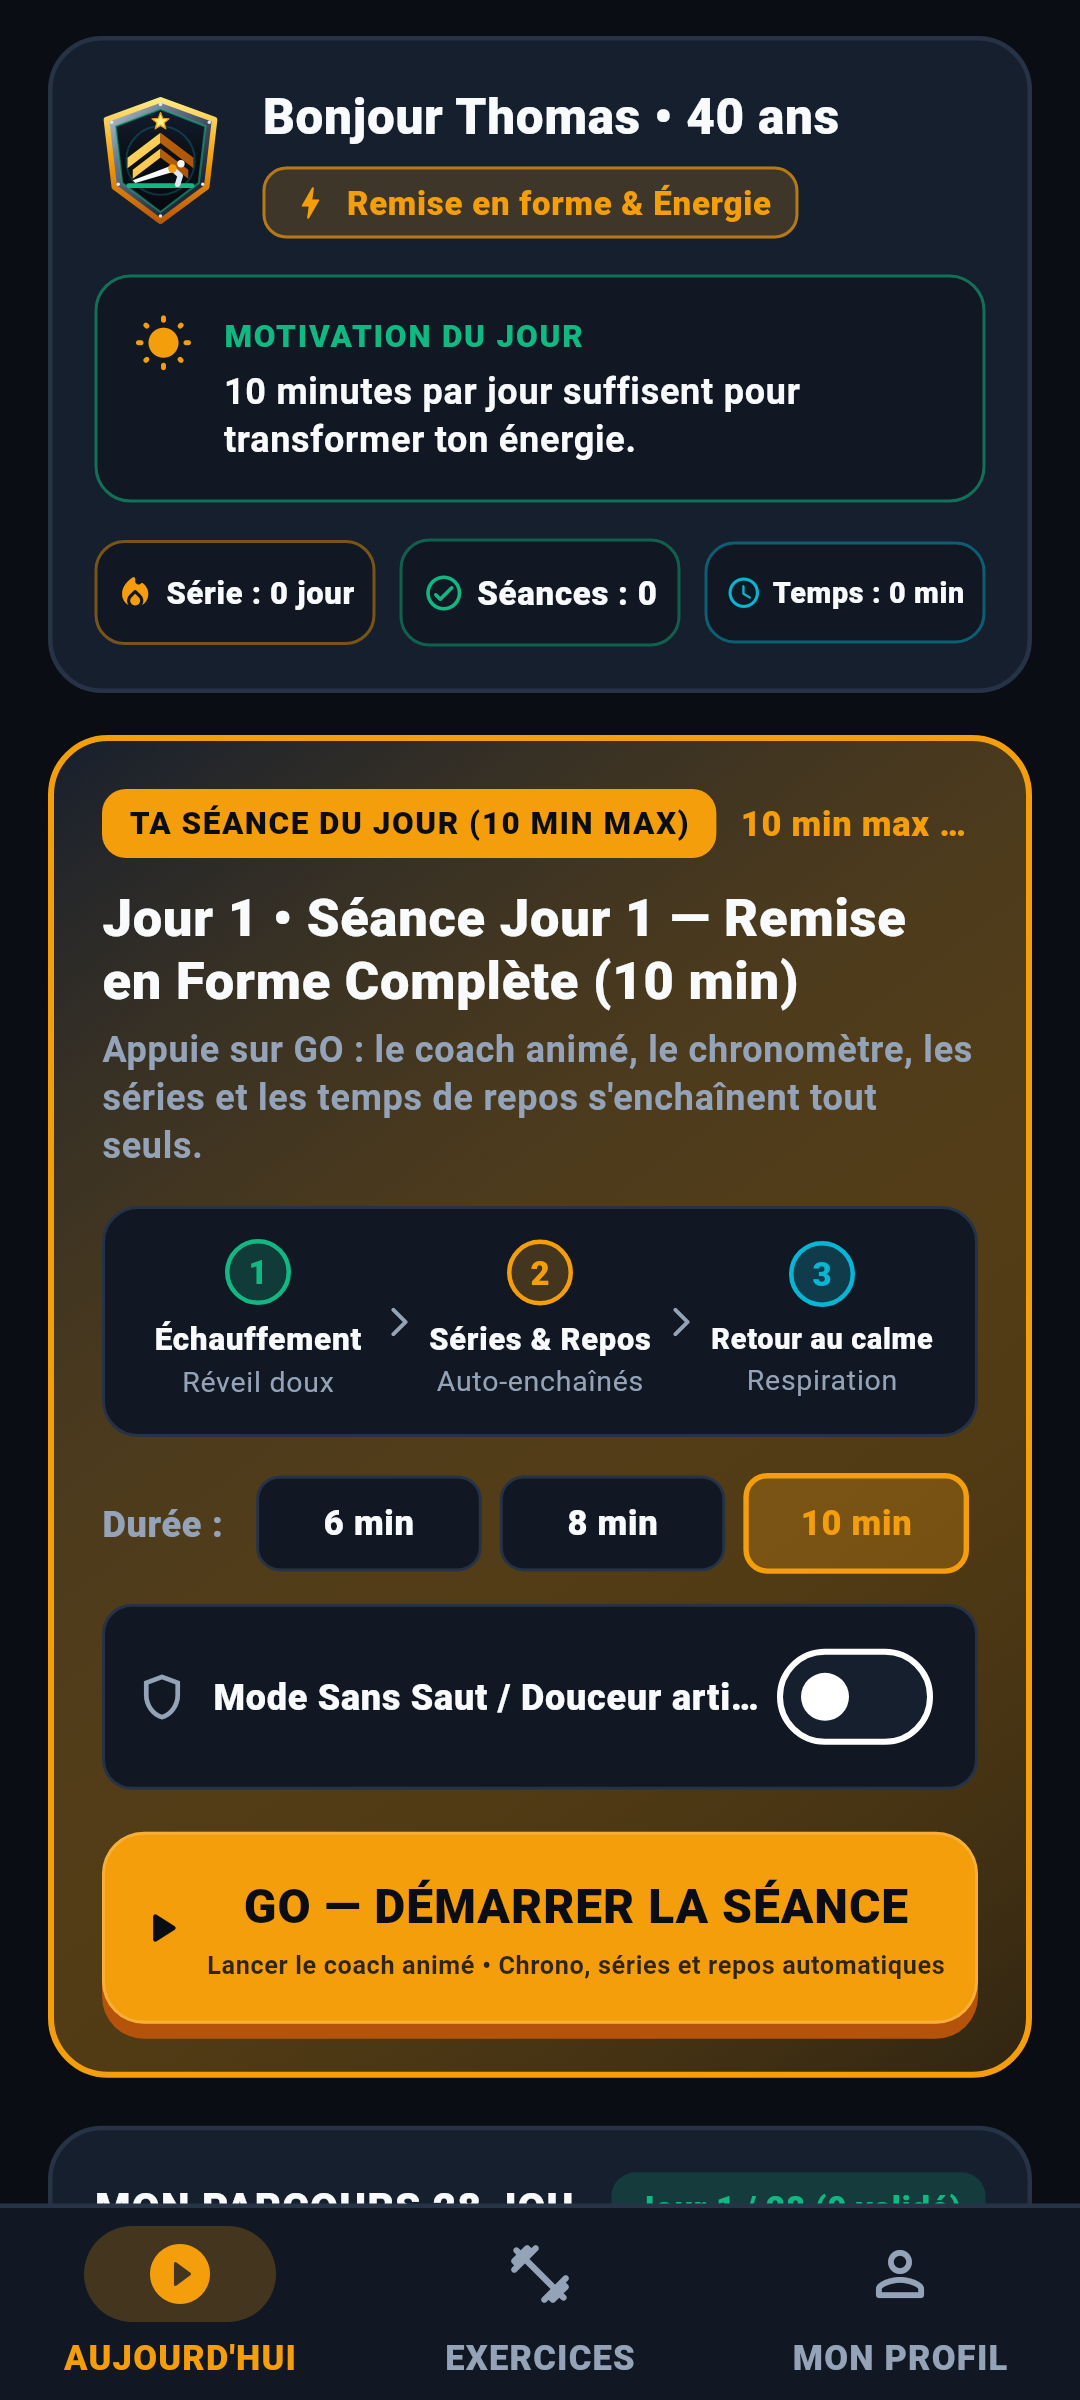
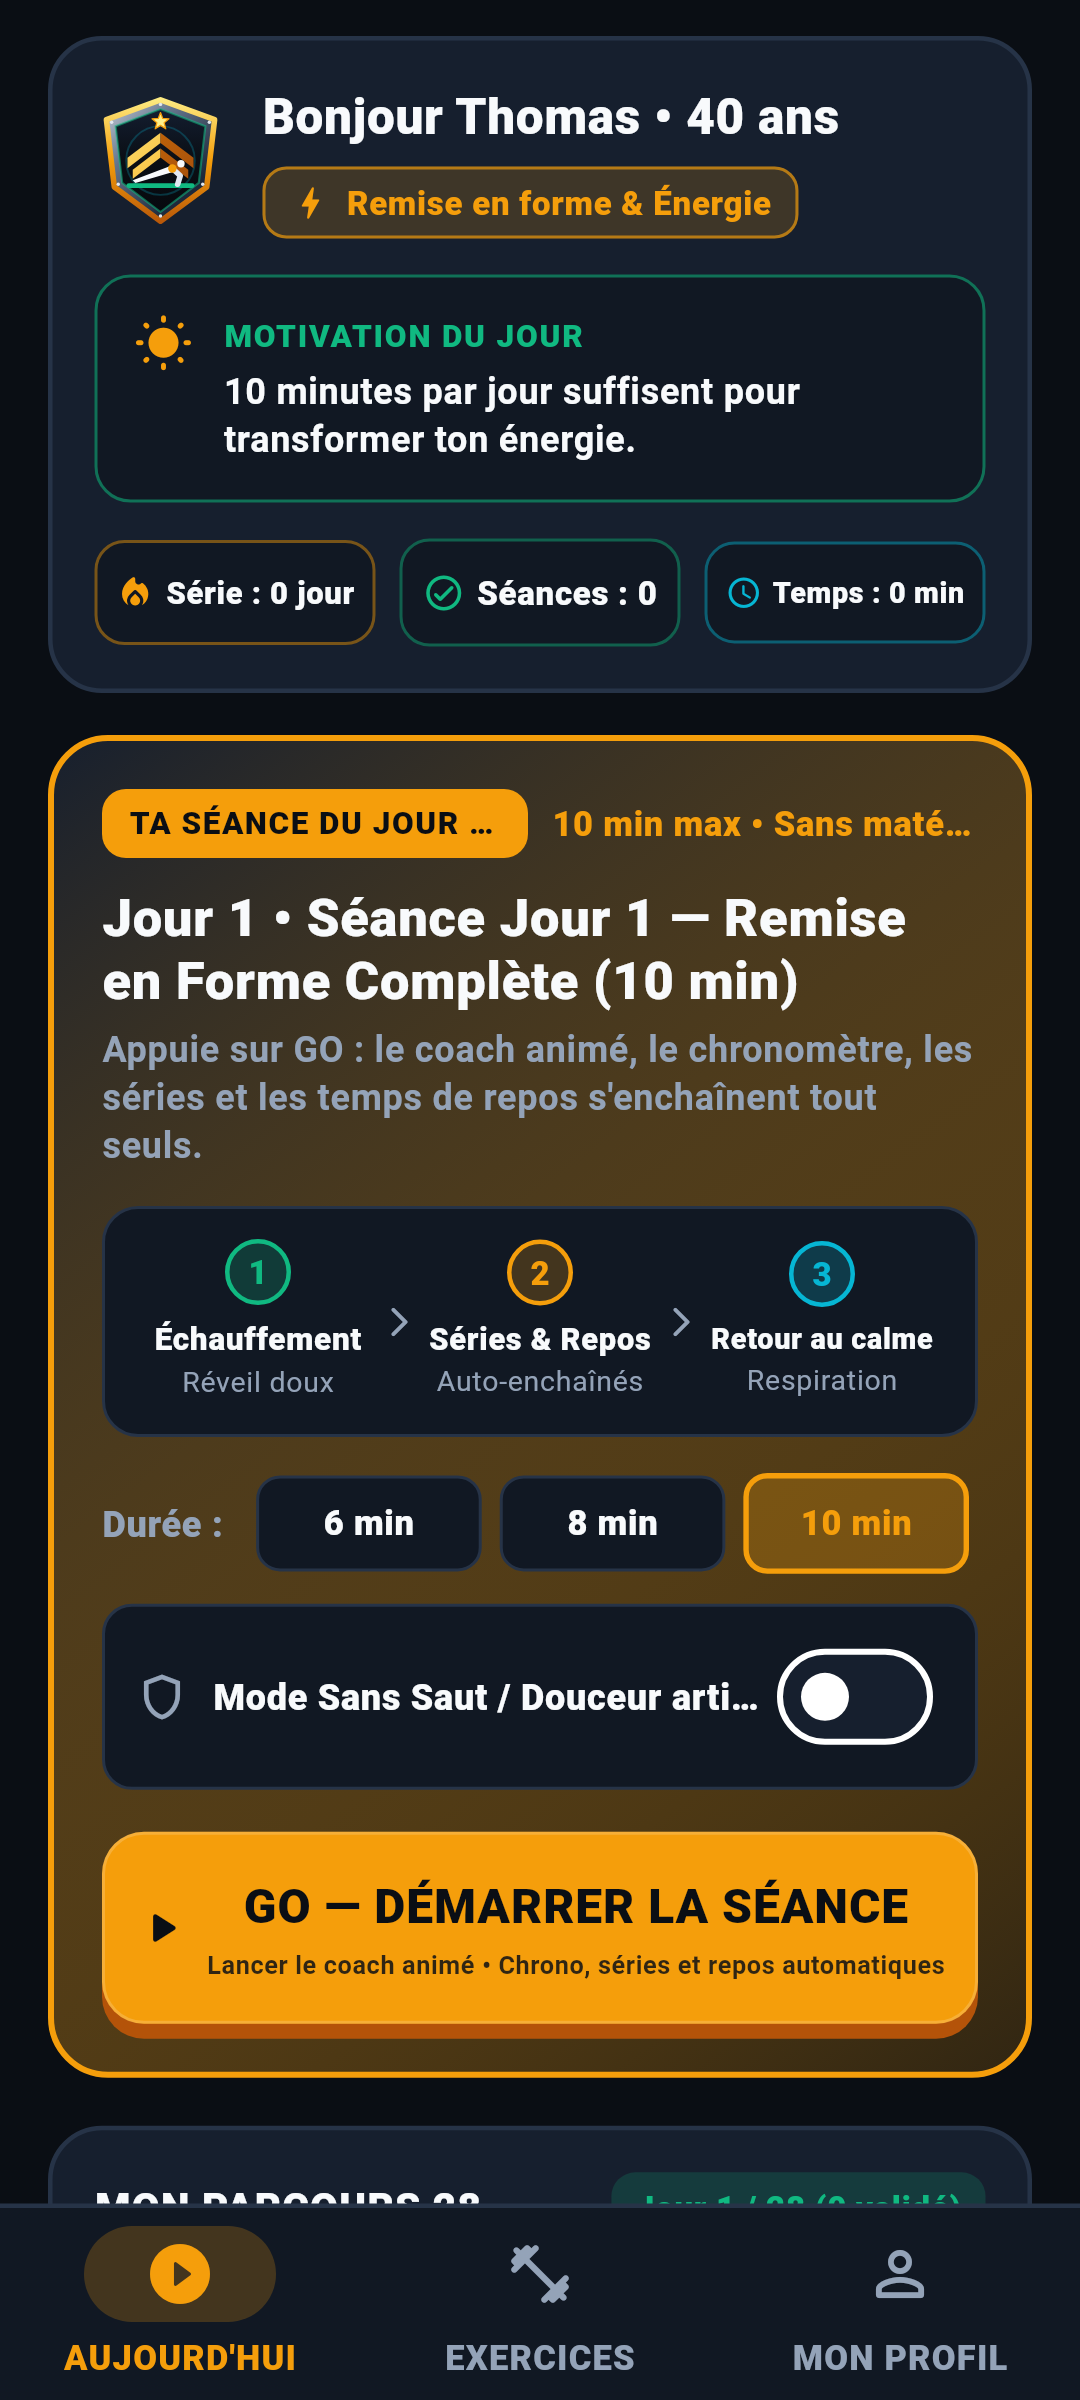
fix(v1.1.1): resolve CI test font overflow and publish Android APK/AAB builds to GitHub Releases

Changed region(s): [[0.4583, 0.3125, 0.6722, 0.375], [0.7333, 0.3438, 0.7639, 0.375], [0.7028, 0.3125, 0.7333, 0.3438]]

diff --git a/lib/ui/barracks_and_trials_tab.dart b/lib/ui/barracks_and_trials_tab.dart
@@ -167,12 +167,16 @@ class BarracksAndTrialsTab extends StatelessWidget {
         children: <Widget>[
           Icon(icon, color: accent, size: 18),
           const SizedBox(width: 10),
-          Text(
-            '$label : ',
-            style: const TextStyle(
-              color: MakeFitTheme.textSecondary,
-              fontWeight: FontWeight.w700,
-              fontSize: 12,
+          Flexible(
+            child: Text(
+              '$label : ',
+              maxLines: 1,
+              overflow: TextOverflow.ellipsis,
+              style: const TextStyle(
+                color: MakeFitTheme.textSecondary,
+                fontWeight: FontWeight.w700,
+                fontSize: 12,
+              ),
             ),
           ),
           Expanded(
@@ -260,22 +264,32 @@ class BarracksAndTrialsTab extends StatelessWidget {
           Row(
             mainAxisAlignment: MainAxisAlignment.spaceBetween,
             children: <Widget>[
-              Text(
-                'Niveau actuel : ${profile.rank.title}',
-                style: const TextStyle(
-                  color: MakeFitTheme.textPrimary,
-                  fontWeight: FontWeight.w800,
-                  fontSize: 11.5,
+              Flexible(
+                child: Text(
+                  'Niveau actuel : ${profile.rank.title}',
+                  maxLines: 1,
+                  overflow: TextOverflow.ellipsis,
+                  style: const TextStyle(
+                    color: MakeFitTheme.textPrimary,
+                    fontWeight: FontWeight.w800,
+                    fontSize: 11.5,
+                  ),
                 ),
               ),
-              Text(
-                nextRank != null
-                    ? 'Prochain palier : $nextMinTxp XP'
-                    : 'Niveau maximal atteint',
-                style: const TextStyle(
-                  color: MakeFitTheme.textSecondary,
-                  fontWeight: FontWeight.w700,
-                  fontSize: 11,
+              const SizedBox(width: 8),
+              Flexible(
+                child: Text(
+                  nextRank != null
+                      ? 'Prochain palier : $nextMinTxp XP'
+                      : 'Niveau maximal atteint',
+                  maxLines: 1,
+                  overflow: TextOverflow.ellipsis,
+                  textAlign: TextAlign.right,
+                  style: const TextStyle(
+                    color: MakeFitTheme.textSecondary,
+                    fontWeight: FontWeight.w700,
+                    fontSize: 11,
+                  ),
                 ),
               ),
             ],
@@ -366,12 +380,18 @@ class BarracksAndTrialsTab extends StatelessWidget {
                   ),
                 ),
               ),
-              Text(
-                '$activeDays / 28 jours cochés',
-                style: const TextStyle(
-                  color: MakeFitTheme.emeraldH2f,
-                  fontWeight: FontWeight.w800,
-                  fontSize: 11.5,
+              const SizedBox(width: 8),
+              Flexible(
+                child: Text(
+                  '$activeDays / 28 jours cochés',
+                  maxLines: 1,
+                  overflow: TextOverflow.ellipsis,
+                  textAlign: TextAlign.right,
+                  style: const TextStyle(
+                    color: MakeFitTheme.emeraldH2f,
+                    fontWeight: FontWeight.w800,
+                    fontSize: 11.5,
+                  ),
                 ),
               ),
             ],

diff --git a/lib/ui/command_center_tab.dart b/lib/ui/command_center_tab.dart
@@ -263,22 +263,26 @@ class CommandCenterTab extends StatelessWidget {
         children: <Widget>[
           Row(
             children: <Widget>[
-              Container(
-                padding: const EdgeInsets.symmetric(
-                  horizontal: 9,
-                  vertical: 4,
-                ),
-                decoration: BoxDecoration(
-                  color: MakeFitTheme.amberTactical,
-                  borderRadius: BorderRadius.circular(8),
-                ),
-                child: const Text(
-                  'TA SÉANCE DU JOUR (10 MIN MAX)',
-                  style: TextStyle(
-                    color: MakeFitTheme.oledBlack,
-                    fontWeight: FontWeight.w900,
-                    fontSize: 10.5,
-                    letterSpacing: 0.5,
+              Flexible(
+                child: Container(
+                  padding: const EdgeInsets.symmetric(
+                    horizontal: 9,
+                    vertical: 4,
+                  ),
+                  decoration: BoxDecoration(
+                    color: MakeFitTheme.amberTactical,
+                    borderRadius: BorderRadius.circular(8),
+                  ),
+                  child: const Text(
+                    'TA SÉANCE DU JOUR (10 MIN MAX)',
+                    maxLines: 1,
+                    overflow: TextOverflow.ellipsis,
+                    style: TextStyle(
+                      color: MakeFitTheme.oledBlack,
+                      fontWeight: FontWeight.w900,
+                      fontSize: 10.5,
+                      letterSpacing: 0.5,
+                    ),
                   ),
                 ),
               ),
@@ -581,18 +585,26 @@ class CommandCenterTab extends StatelessWidget {
                   ),
                 ),
               ),
-              Container(
-                padding: const EdgeInsets.symmetric(horizontal: 8, vertical: 4),
-                decoration: BoxDecoration(
-                  color: MakeFitTheme.emeraldH2f.withValues(alpha: 0.18),
-                  borderRadius: BorderRadius.circular(8),
-                ),
-                child: Text(
-                  'Jour ${profile.currentCampaignDay} / 28 ($completedDaysCount validé${completedDaysCount > 1 ? 's' : ''})',
-                  style: const TextStyle(
-                    color: MakeFitTheme.emeraldH2f,
-                    fontWeight: FontWeight.w900,
-                    fontSize: 11,
+              const SizedBox(width: 8),
+              Flexible(
+                child: Container(
+                  padding: const EdgeInsets.symmetric(
+                    horizontal: 8,
+                    vertical: 4,
+                  ),
+                  decoration: BoxDecoration(
+                    color: MakeFitTheme.emeraldH2f.withValues(alpha: 0.18),
+                    borderRadius: BorderRadius.circular(8),
+                  ),
+                  child: Text(
+                    'Jour ${profile.currentCampaignDay} / 28 ($completedDaysCount validé${completedDaysCount > 1 ? 's' : ''})',
+                    maxLines: 1,
+                    overflow: TextOverflow.ellipsis,
+                    style: const TextStyle(
+                      color: MakeFitTheme.emeraldH2f,
+                      fontWeight: FontWeight.w900,
+                      fontSize: 11,
+                    ),
                   ),
                 ),
               ),

diff --git a/test/widget_test.dart b/test/widget_test.dart
@@ -11,34 +11,50 @@ import 'package:makefit/main.dart';
 import 'package:makefit/models/makefit_models.dart';
 
 Future<void> _loadRobotoAndMaterialIconsIfAvailable() async {
-  const List<String> robotoPaths = <String>[
-    '/tmp/flutter-sdk/flutter/bin/cache/artifacts/material_fonts/Roboto-Black.ttf',
-    '/tmp/flutter-sdk/flutter/bin/cache/artifacts/material_fonts/Roboto-Bold.ttf',
-    '/tmp/flutter-sdk/flutter/bin/cache/artifacts/material_fonts/Roboto-Medium.ttf',
-    '/tmp/flutter-sdk/flutter/bin/cache/artifacts/material_fonts/Roboto-Regular.ttf',
+  final String? envFlutterRoot = Platform.environment['FLUTTER_ROOT'];
+  final List<String> sdkRoots = <String>[
+    if (envFlutterRoot != null && envFlutterRoot.isNotEmpty) envFlutterRoot,
+    '/tmp/flutter-sdk/flutter',
   ];
-  final FontLoader robotoLoader = FontLoader('Roboto');
-  bool robotoLoaded = false;
-  for (final String path in robotoPaths) {
-    final File f = File(path);
-    if (f.existsSync()) {
-      final Uint8List bytes = await f.readAsBytes();
-      robotoLoader.addFont(Future<ByteData>.value(ByteData.sublistView(bytes)));
-      robotoLoaded = true;
-    }
-  }
-  if (robotoLoaded) {
-    await robotoLoader.load();
-  }
 
-  final File iconFile = File(
-    '/tmp/flutter-sdk/flutter/bin/cache/artifacts/material_fonts/MaterialIcons-Regular.otf',
-  );
-  if (iconFile.existsSync()) {
-    final FontLoader iconLoader = FontLoader('MaterialIcons');
-    final Uint8List iconBytes = await iconFile.readAsBytes();
-    iconLoader.addFont(Future<ByteData>.value(ByteData.sublistView(iconBytes)));
-    await iconLoader.load();
+  const List<String> robotoFiles = <String>[
+    'Roboto-Black.ttf',
+    'Roboto-Bold.ttf',
+    'Roboto-Medium.ttf',
+    'Roboto-Regular.ttf',
+  ];
+
+  for (final String root in sdkRoots) {
+    final String fontDir = '$root/bin/cache/artifacts/material_fonts';
+    if (!Directory(fontDir).existsSync()) {
+      continue;
+    }
+    final FontLoader robotoLoader = FontLoader('Roboto');
+    bool robotoLoaded = false;
+    for (final String fileName in robotoFiles) {
+      final File f = File('$fontDir/$fileName');
+      if (f.existsSync()) {
+        final Uint8List bytes = await f.readAsBytes();
+        robotoLoader.addFont(
+          Future<ByteData>.value(ByteData.sublistView(bytes)),
+        );
+        robotoLoaded = true;
+      }
+    }
+    if (robotoLoaded) {
+      await robotoLoader.load();
+    }
+
+    final File iconFile = File('$fontDir/MaterialIcons-Regular.otf');
+    if (iconFile.existsSync()) {
+      final FontLoader iconLoader = FontLoader('MaterialIcons');
+      final Uint8List iconBytes = await iconFile.readAsBytes();
+      iconLoader.addFont(
+        Future<ByteData>.value(ByteData.sublistView(iconBytes)),
+      );
+      await iconLoader.load();
+    }
+    break;
   }
 }
 

diff --git a/CHANGELOG.md b/CHANGELOG.md
@@ -1,5 +1,14 @@
 # Changelog — MakeFit (`cloud.orbital8.makefit`)
 
+## [v1.1.1] (`1.1.1+3`) - 2026-11-13
+
+### Fixed (`ORB-87` — Build CI GitHub Actions & Publication Automatique APK / AAB)
+
+- **Résolution de la cause racine de l'échec du build CI GitHub Actions (`RenderFlex overflow` sous police de test CI)** :
+  - Encapsulation adaptative (`Flexible` + `TextOverflow.ellipsis`) des bandeaux d'en-tête dans `lib/ui/command_center_tab.dart` et `lib/ui/barracks_and_trials_tab.dart` pour garantir 0 débordement quelle que soit la métrique de police ou la taille d'accessibilité Android/iOS.
+  - Chargement dynamique des polices `Roboto` et `MaterialIcons` via `FLUTTER_ROOT` sur les runners GitHub Actions dans `test/widget_test.dart`.
+  - Génération et publication des binaires Android `app-release.apk`, `makefit-v1.1.1.apk`, `makefit-v1.1.0.apk` et `app-release.aab` dans les GitHub Releases `v1.1.1` et `v1.1.0`.
+
 ## [v1.1.0] (`1.1.0+2`) - 2026-11-13
 
 ### Changed & Added (`ORB-87` — Refonte complète UI/UX Remise en Forme 40+ • 10 Min Max)
